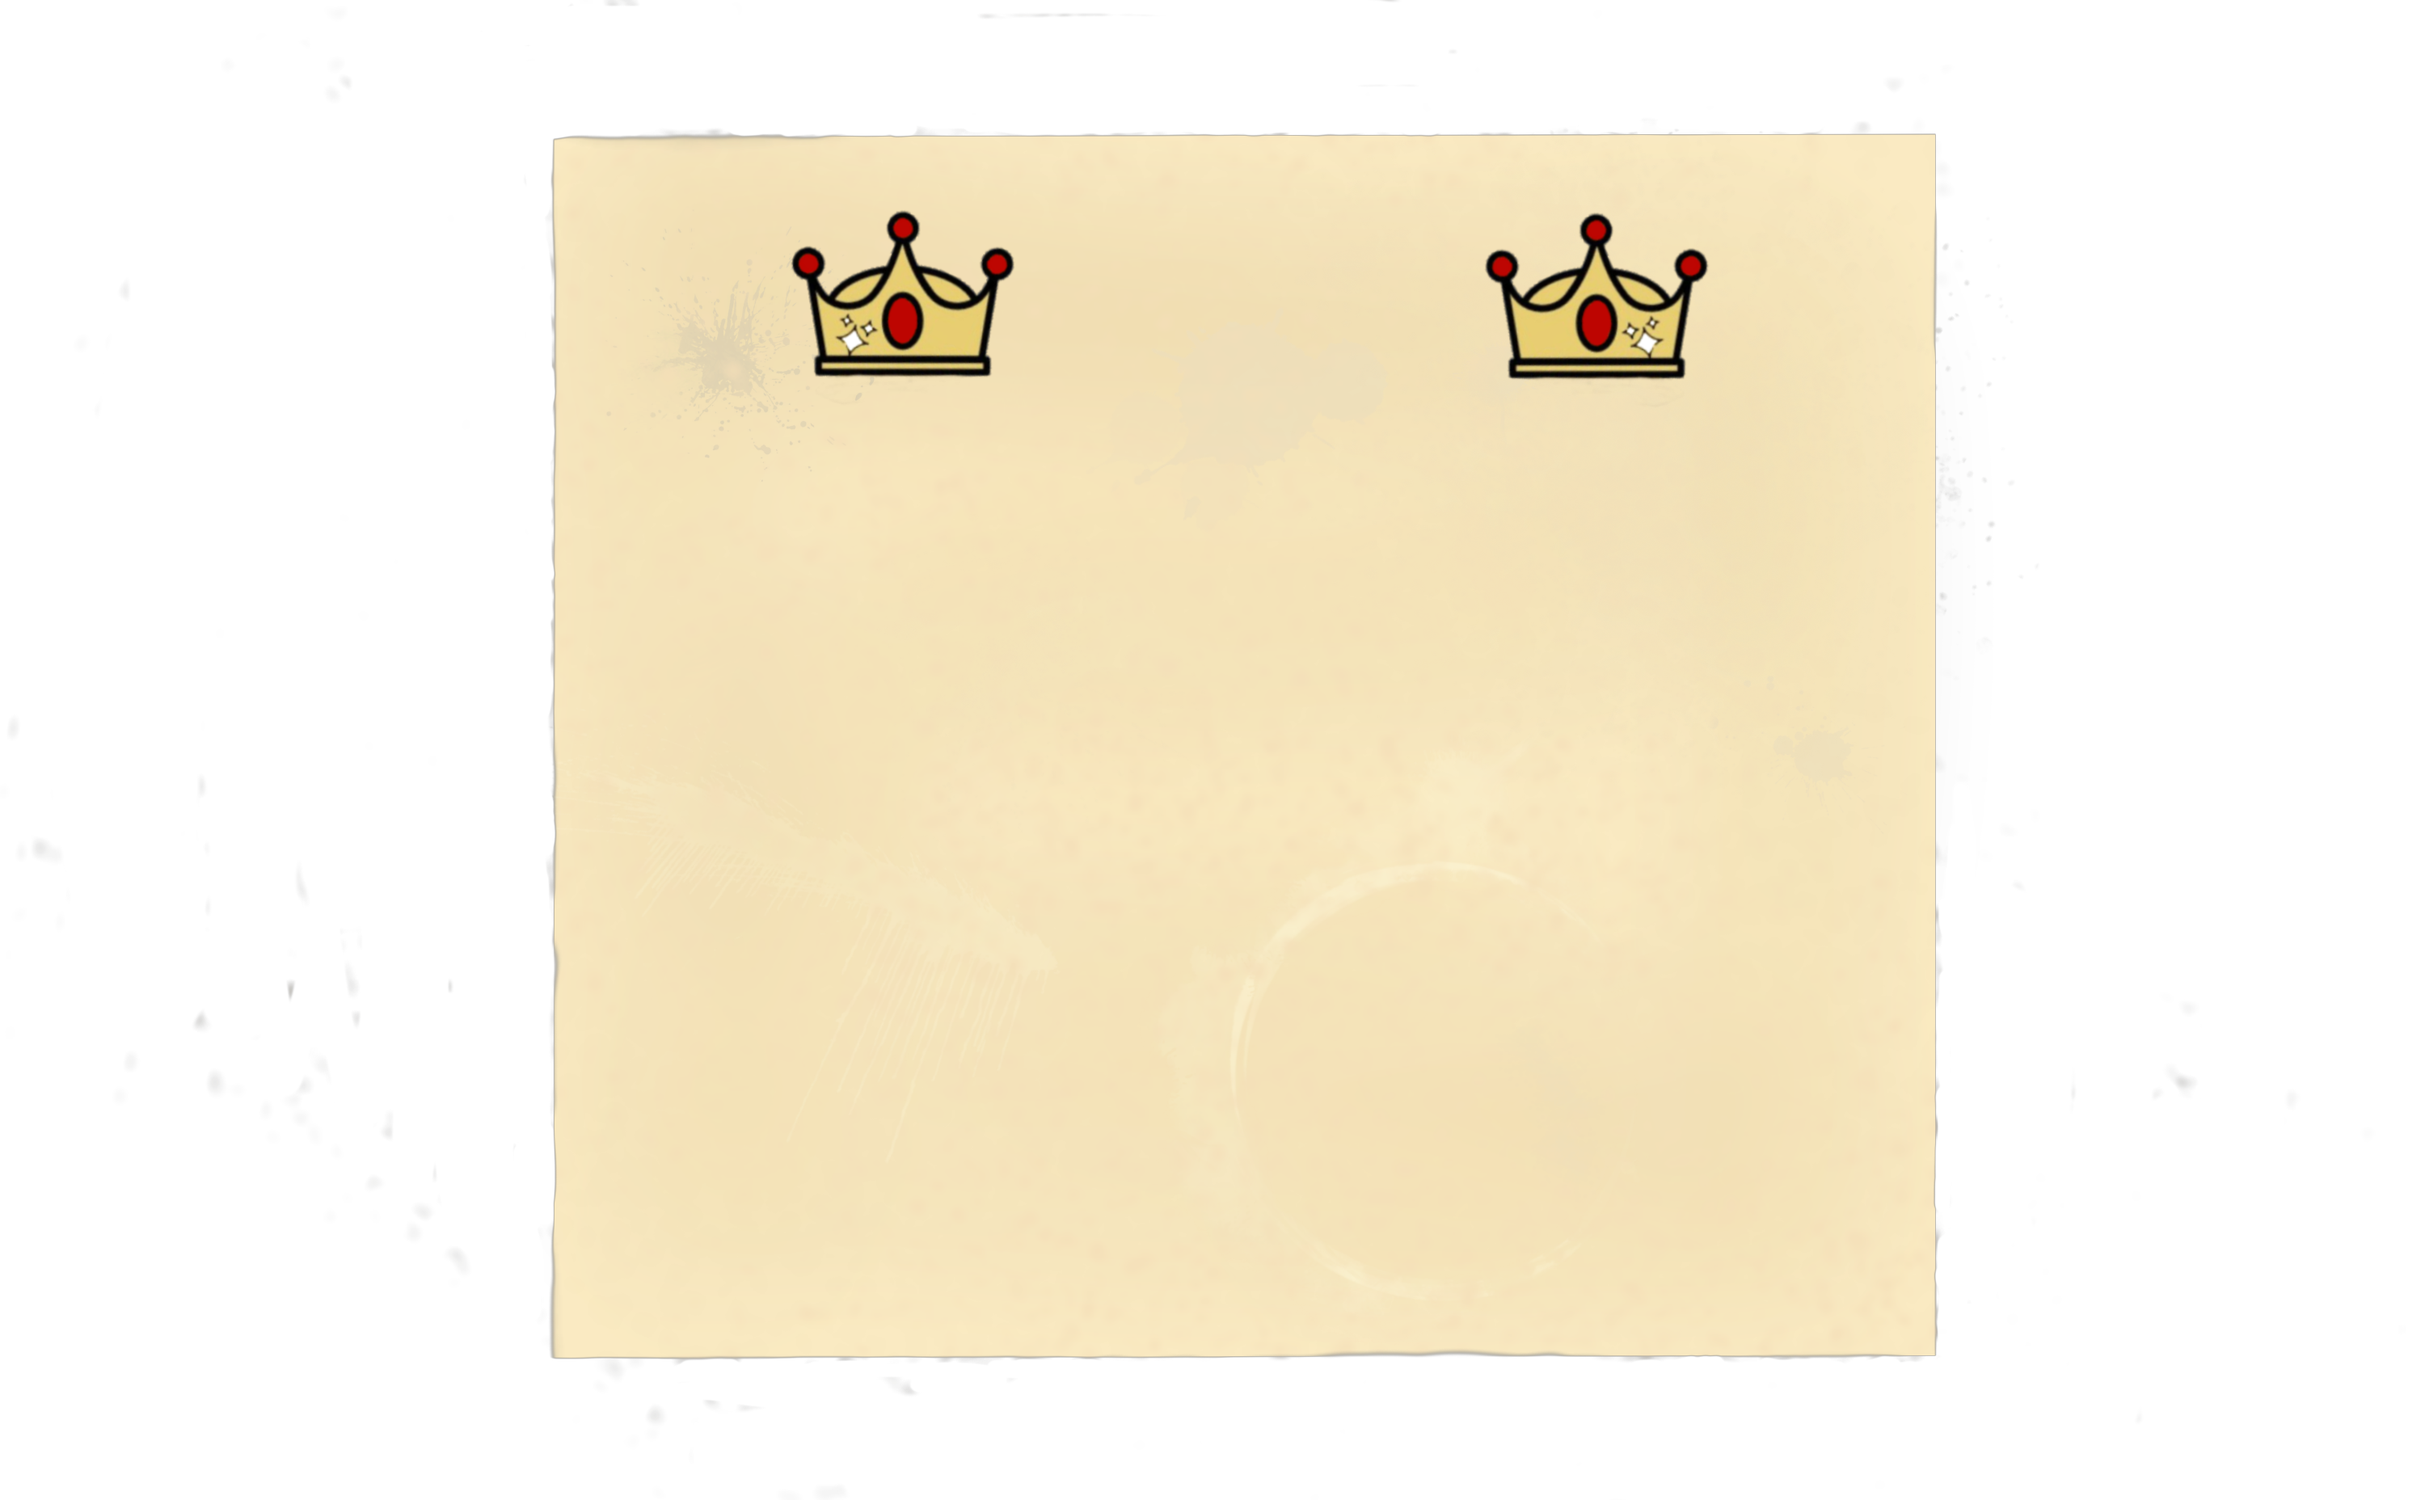
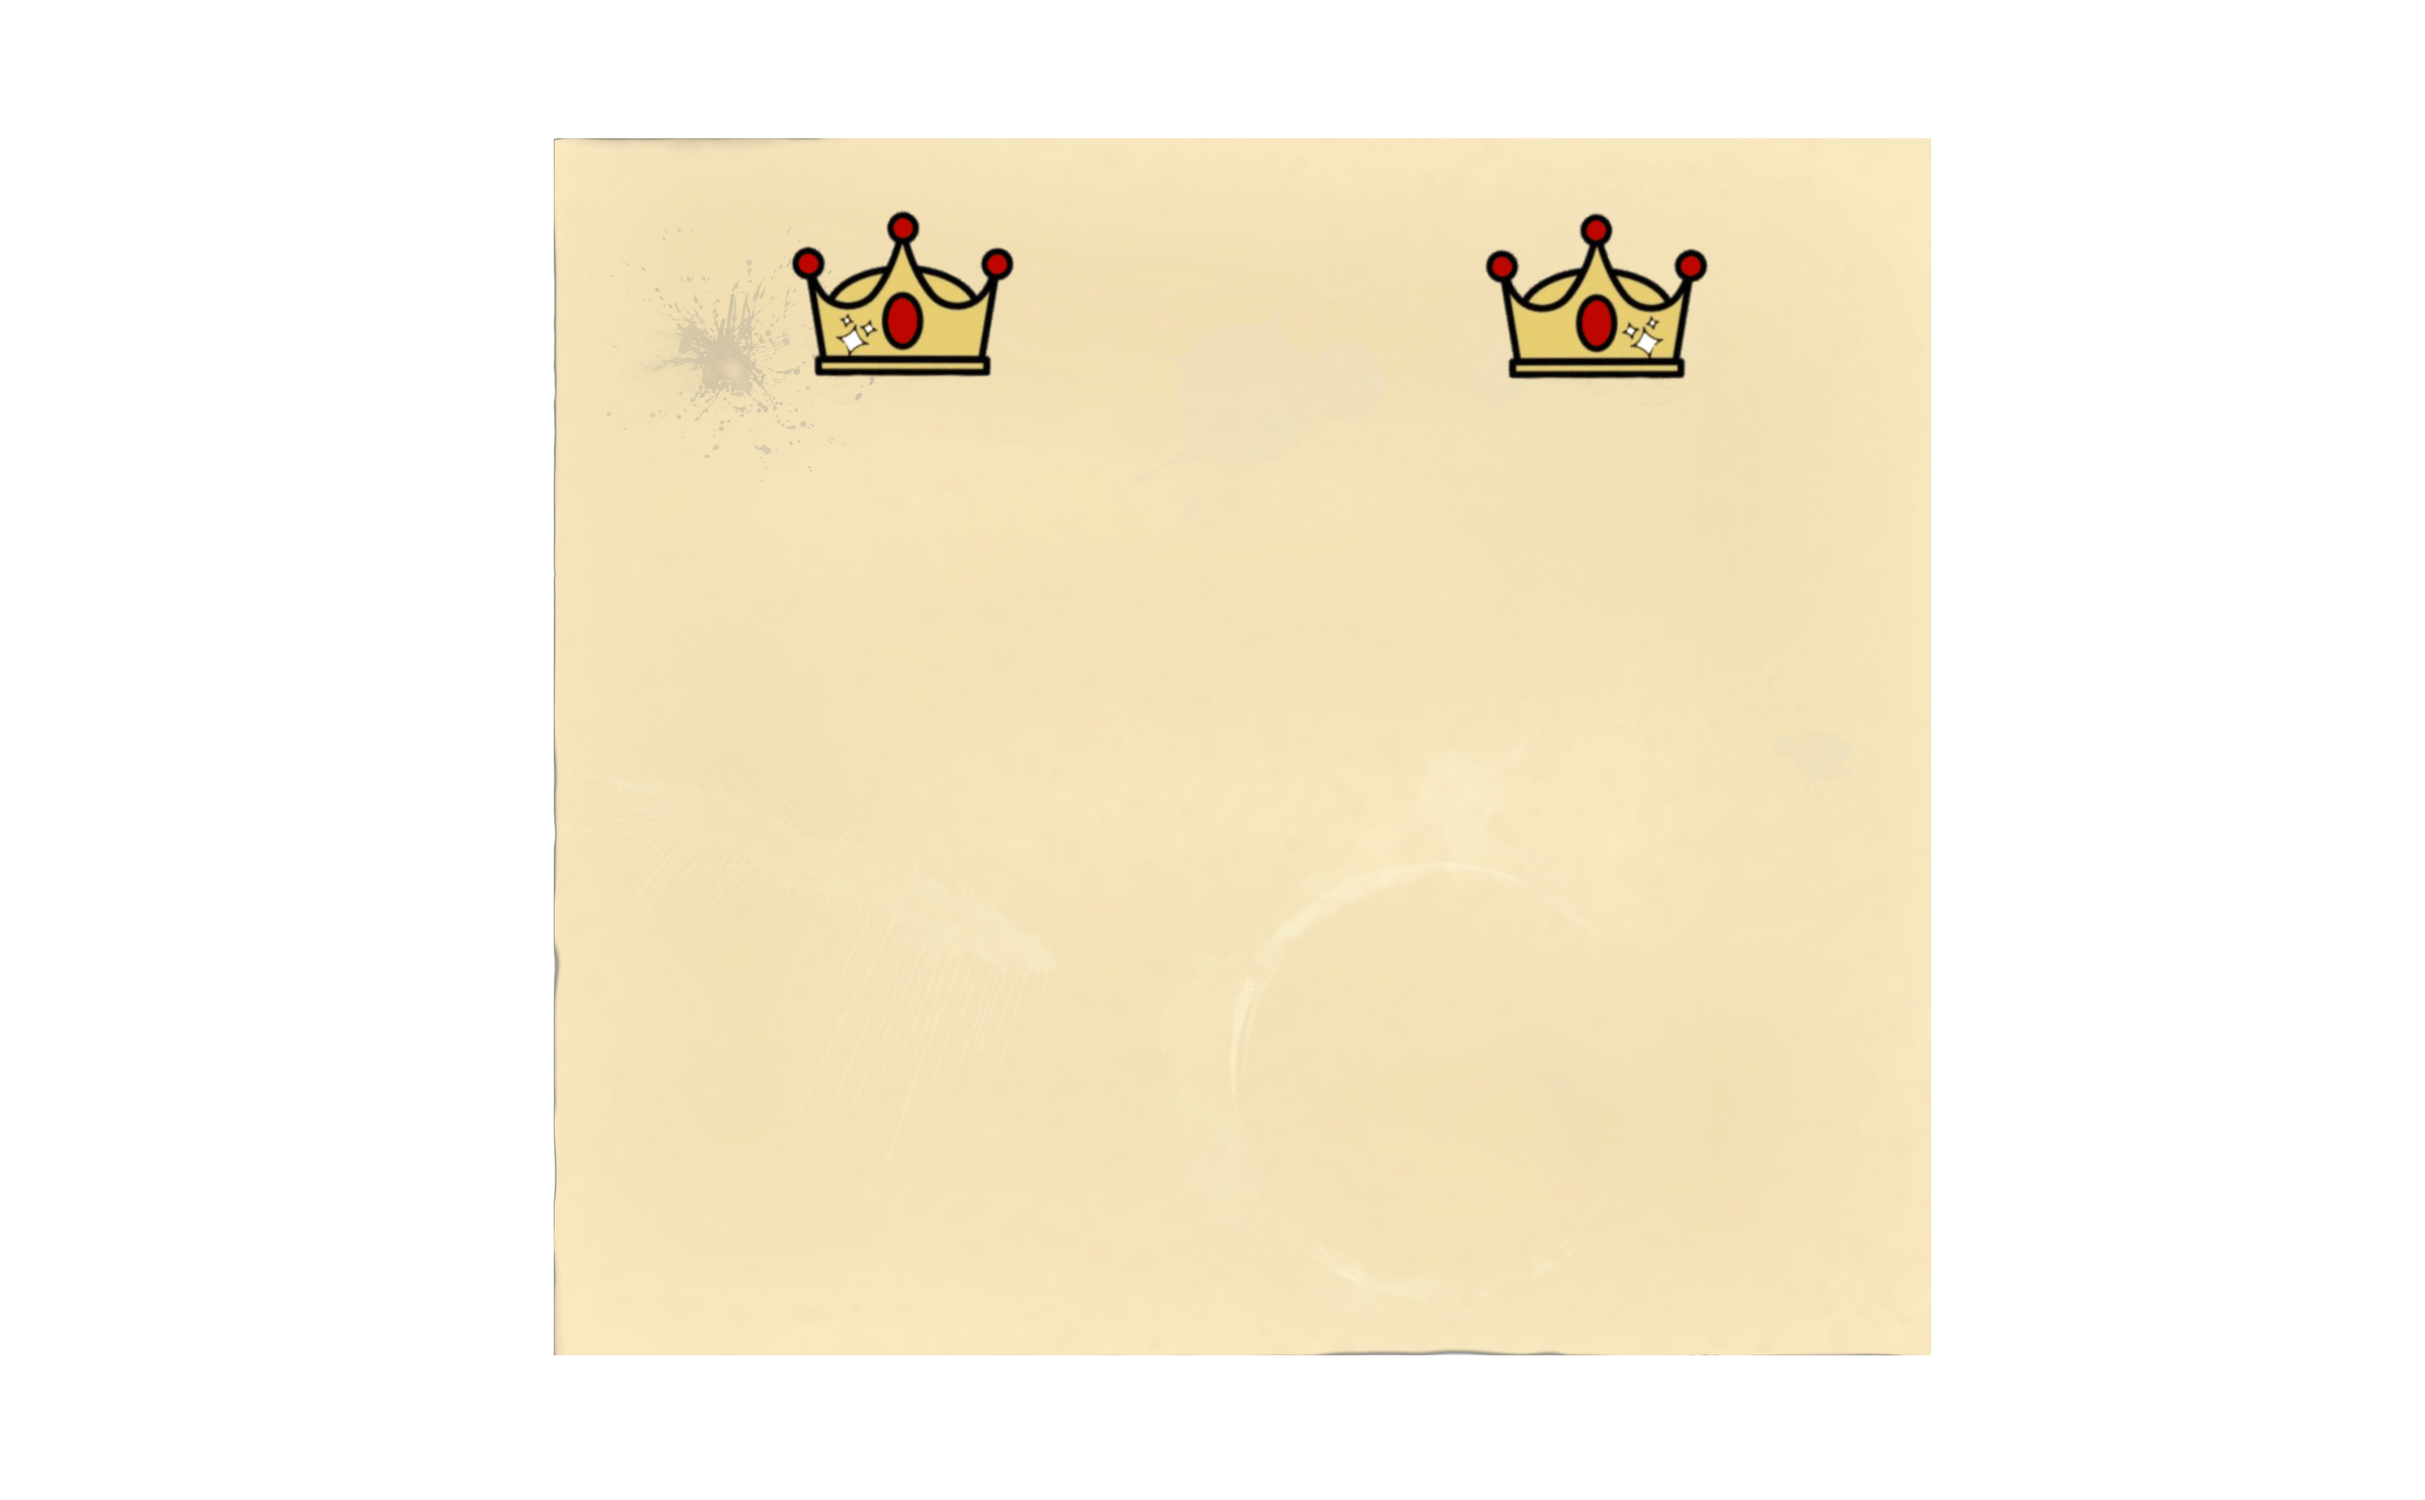
cleaned menu page

Changed region(s): [[0.279, 0.0625, 0.31, 0.0938], [0.217, 0.875, 0.248, 0.9062]]

diff --git a/Firebase/src/game/game.js b/Firebase/src/game/game.js
@@ -41,4 +41,4 @@ game.scene.add('menuScene', menuScene);
 game.scene.add("game", gameScene);
 
 // start title
-game.scene.start('menuScene');
+game.scene.start('titleScene');
